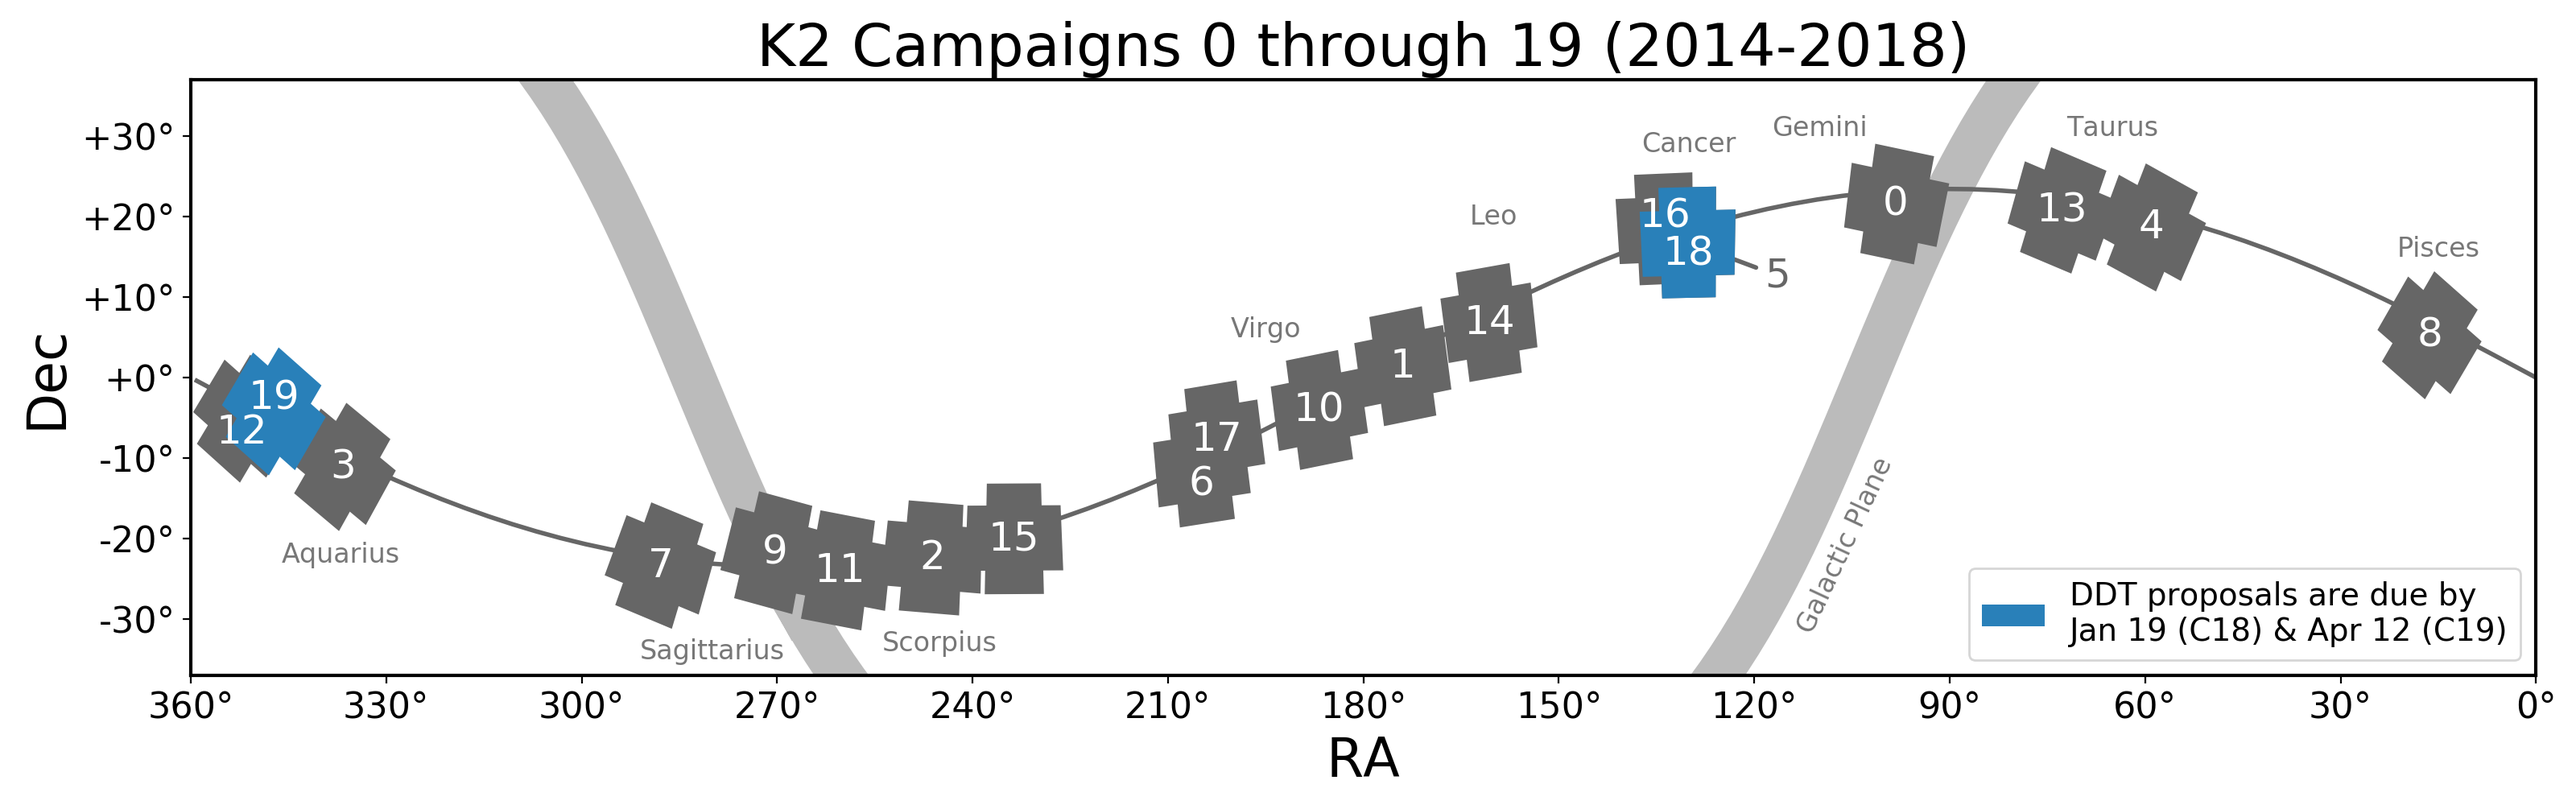
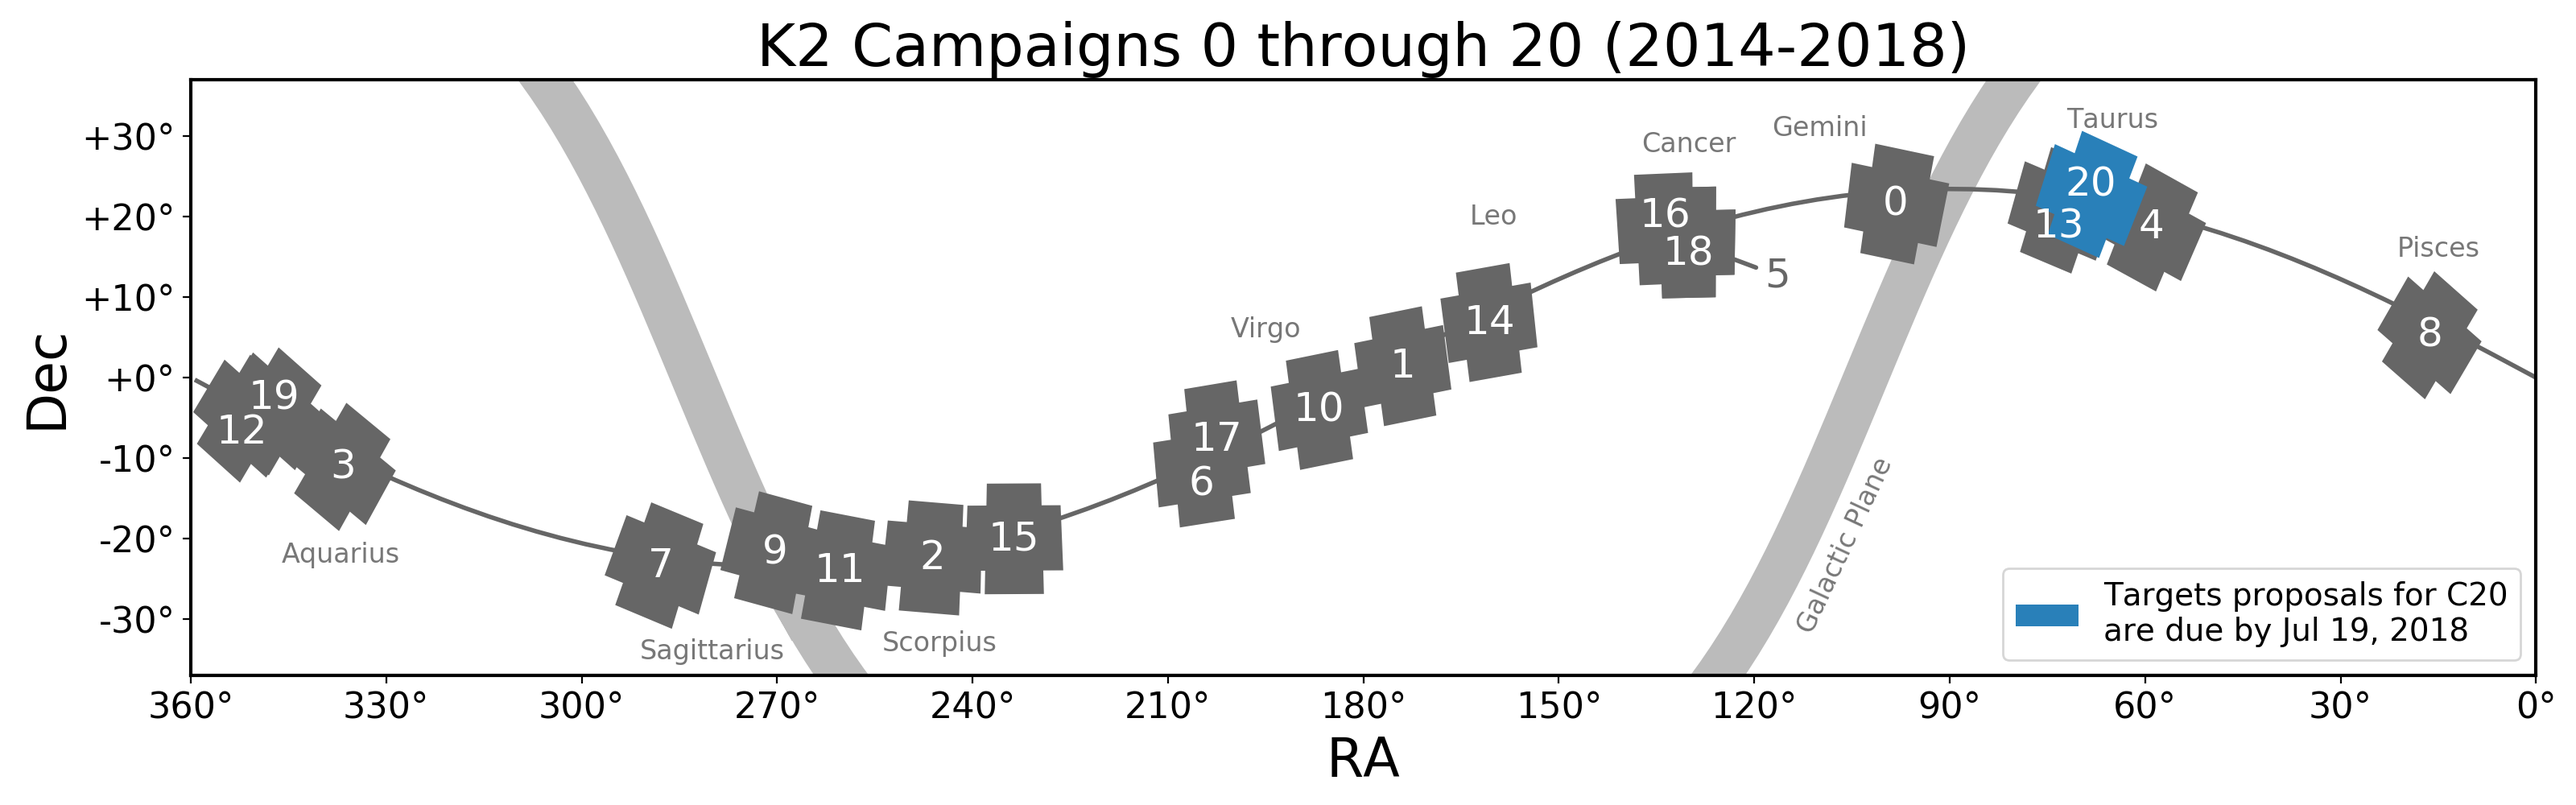
Add C20 to the campaign fields page

diff --git a/content/pages/k2-observing/k2-campaign-fields.md b/content/pages/k2-observing/k2-campaign-fields.md
@@ -275,7 +275,7 @@ This page details the previous, current, and future K2 Campaign fields.
       <td class="text-center">
         <a href="k2-data-release-notes.html#k2-campaign-13"><i class="fa fa-check"></i></a>
       </td>
-      <td>Hyades, Taurus</td>
+      <td>Hyades, Taurus-Auriga</td>
     </tr>
     <tr>
       <td><a href="#c14">14</a></td> 
@@ -309,7 +309,7 @@ This page details the previous, current, and future K2 Campaign fields.
     </tr>
     <tr>
       <td><a href='#c16'>16</a><sup>†</sup></td>
-      <td>2017&nbsp;Dec&nbsp;7</td>
+      <td>2017&nbsp;Dec&nbsp;07</td>
       <td>2018&nbsp;Feb&nbsp;25</td>
       <td>2018&nbsp;May&nbsp;30</td>
       <td>08:54:50</td>
@@ -324,8 +324,8 @@ This page details the previous, current, and future K2 Campaign fields.
     </tr>
     <tr>
       <td><a href='#c17'>17</a><sup>†</sup></td>
-      <td>2018&nbsp;Mar&nbsp;1</td>
-      <td>2018&nbsp;May&nbsp;8</td>
+      <td>2018&nbsp;Mar&nbsp;01</td>
+      <td>2018&nbsp;May&nbsp;08</td>
       <td>2018&nbsp;Aug&#8209;Nov</td>
       <td>13:30:12</td>
       <td>-07:43:16</td>
@@ -340,7 +340,7 @@ This page details the previous, current, and future K2 Campaign fields.
     <tr>
       <td><a href='#c18'>18</a></td>
       <td>2018&nbsp;May&nbsp;12</td>
-      <td>2018&nbsp;Aug&nbsp;2</td>
+      <td>2018&nbsp;Aug&nbsp;02</td>
       <td>2018&nbsp;Nov&#8209;Mar</td>
       <td>08:40:39</td>
       <td>+16:49:40</td>
@@ -354,7 +354,7 @@ This page details the previous, current, and future K2 Campaign fields.
     </tr>
     <tr>
       <td><a href='#c19'>19</a><sup>†</sup></td>
-      <td>2018&nbsp;Aug&nbsp;6</td>
+      <td>2018&nbsp;Aug&nbsp;06</td>
       <td>2018&nbsp;Oct&nbsp;10</td>
       <td>2019&nbsp;Feb&#8209;May</td>
       <td>23:09:02</td>
@@ -367,11 +367,26 @@ This page details the previous, current, and future K2 Campaign fields.
       </td>
       <td>Trappist-1, GJ 9827, Neptune.</td>
     </tr>
+    <tr>
+      <td><a href='#c20'>20</a><sup>†</sup></td>
+      <td>2018&nbsp;Oct&nbsp;15</td>
+      <td>2019&nbsp;Jan&nbsp;05</td>
+      <td>2019&nbsp;May&#8209;Aug</td>
+      <td>04:33:12</td>
+      <td>+22:45:42</td>
+      <td class="text-center">
+        &nbsp;
+      </td>
+      <td class="text-center">
+
+      </td>
+      <td>Taurus-Auriga, Hyades</td>
+    </tr>
   </tdata>
 </table>
 
   <p>
-  <b><sup>†</sup>Note:</b> fields 9, 16, 17, and 19 are forward-facing campaigns, for which simultaneous observations from the ground are possible throughout the duration of the campaign.
+  <b><sup>†</sup>Note:</b> fields 9, 16, 17, 19, and 20 are forward-facing campaigns, for which simultaneous observations from the ground are possible throughout the duration of the campaign.
   </p>
 
   </div>
@@ -493,6 +508,14 @@ You can learn more about the installation and usage of these tools [on the softw
   </div>
 </div>
 
+<div class="row">
+  <div class="col-lg-6">
+    <a href="images/k2/k2-c20-field.png"><img class="img-responsive" style="padding:0.5em;" src="images/k2/k2-c20-field.png" id="c20"></a>
+  </div>
+  <div class="col-lg-6">
+
+  </div>
+</div>
 
 <hr/>
 
